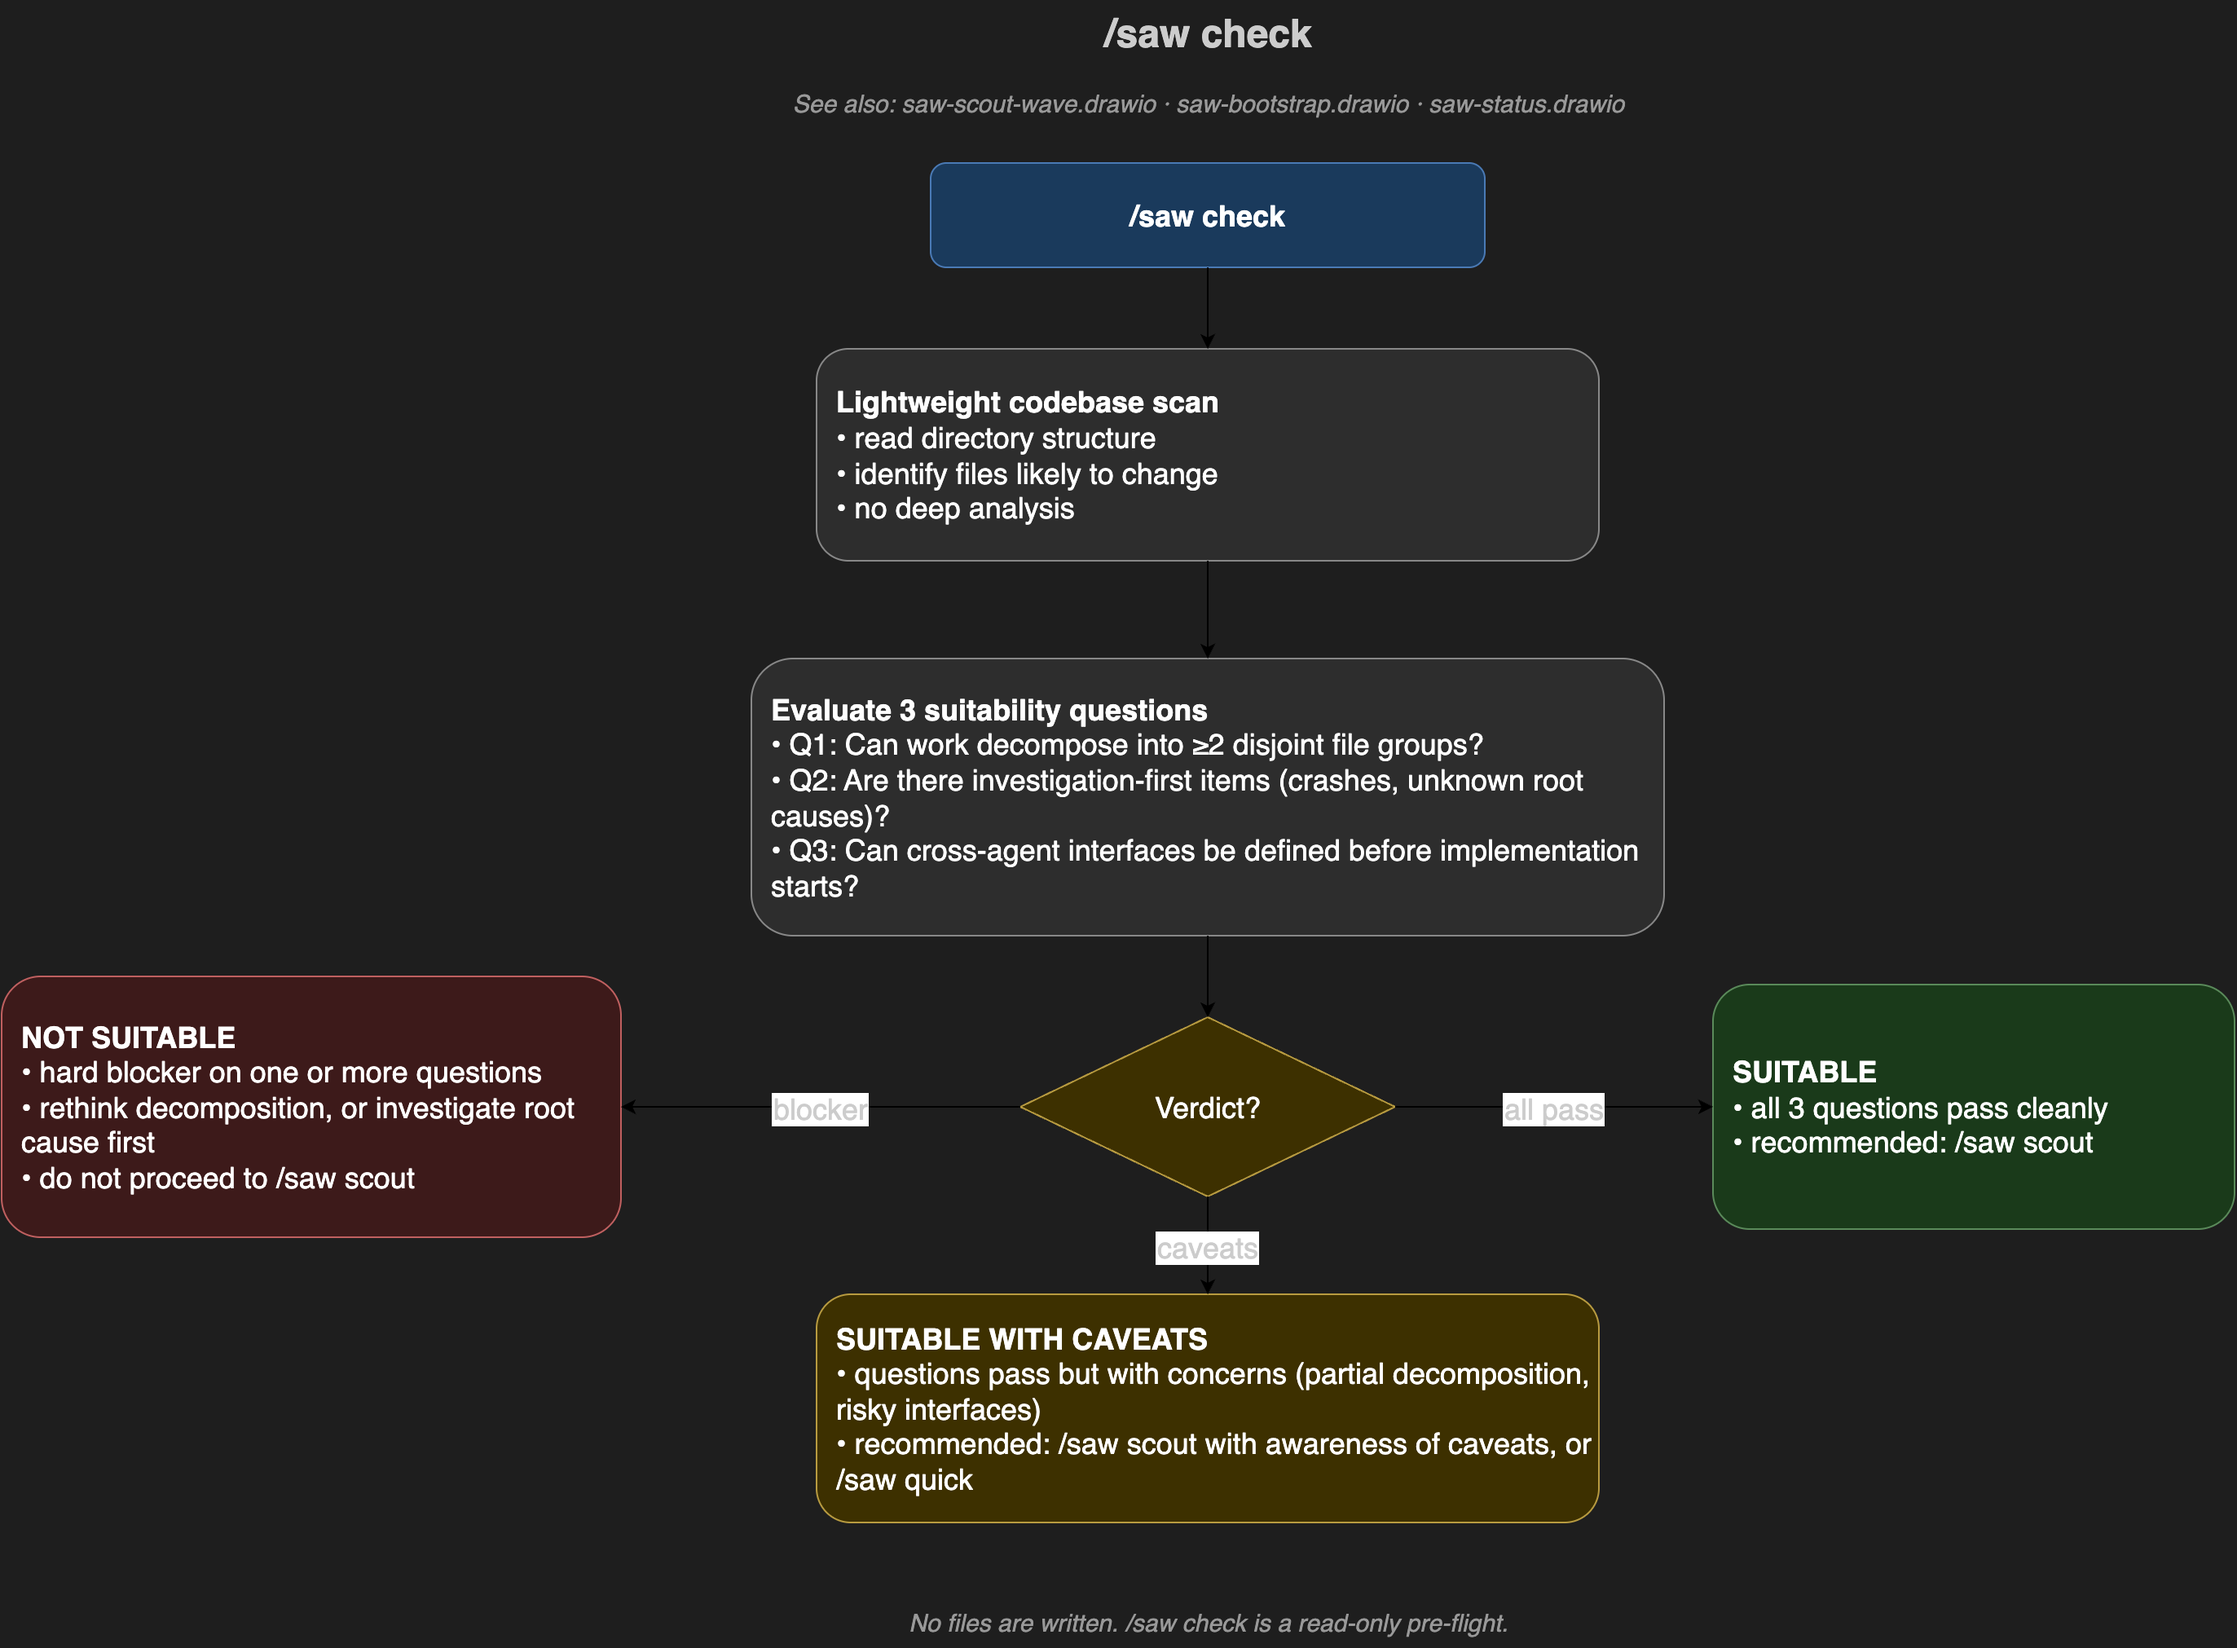
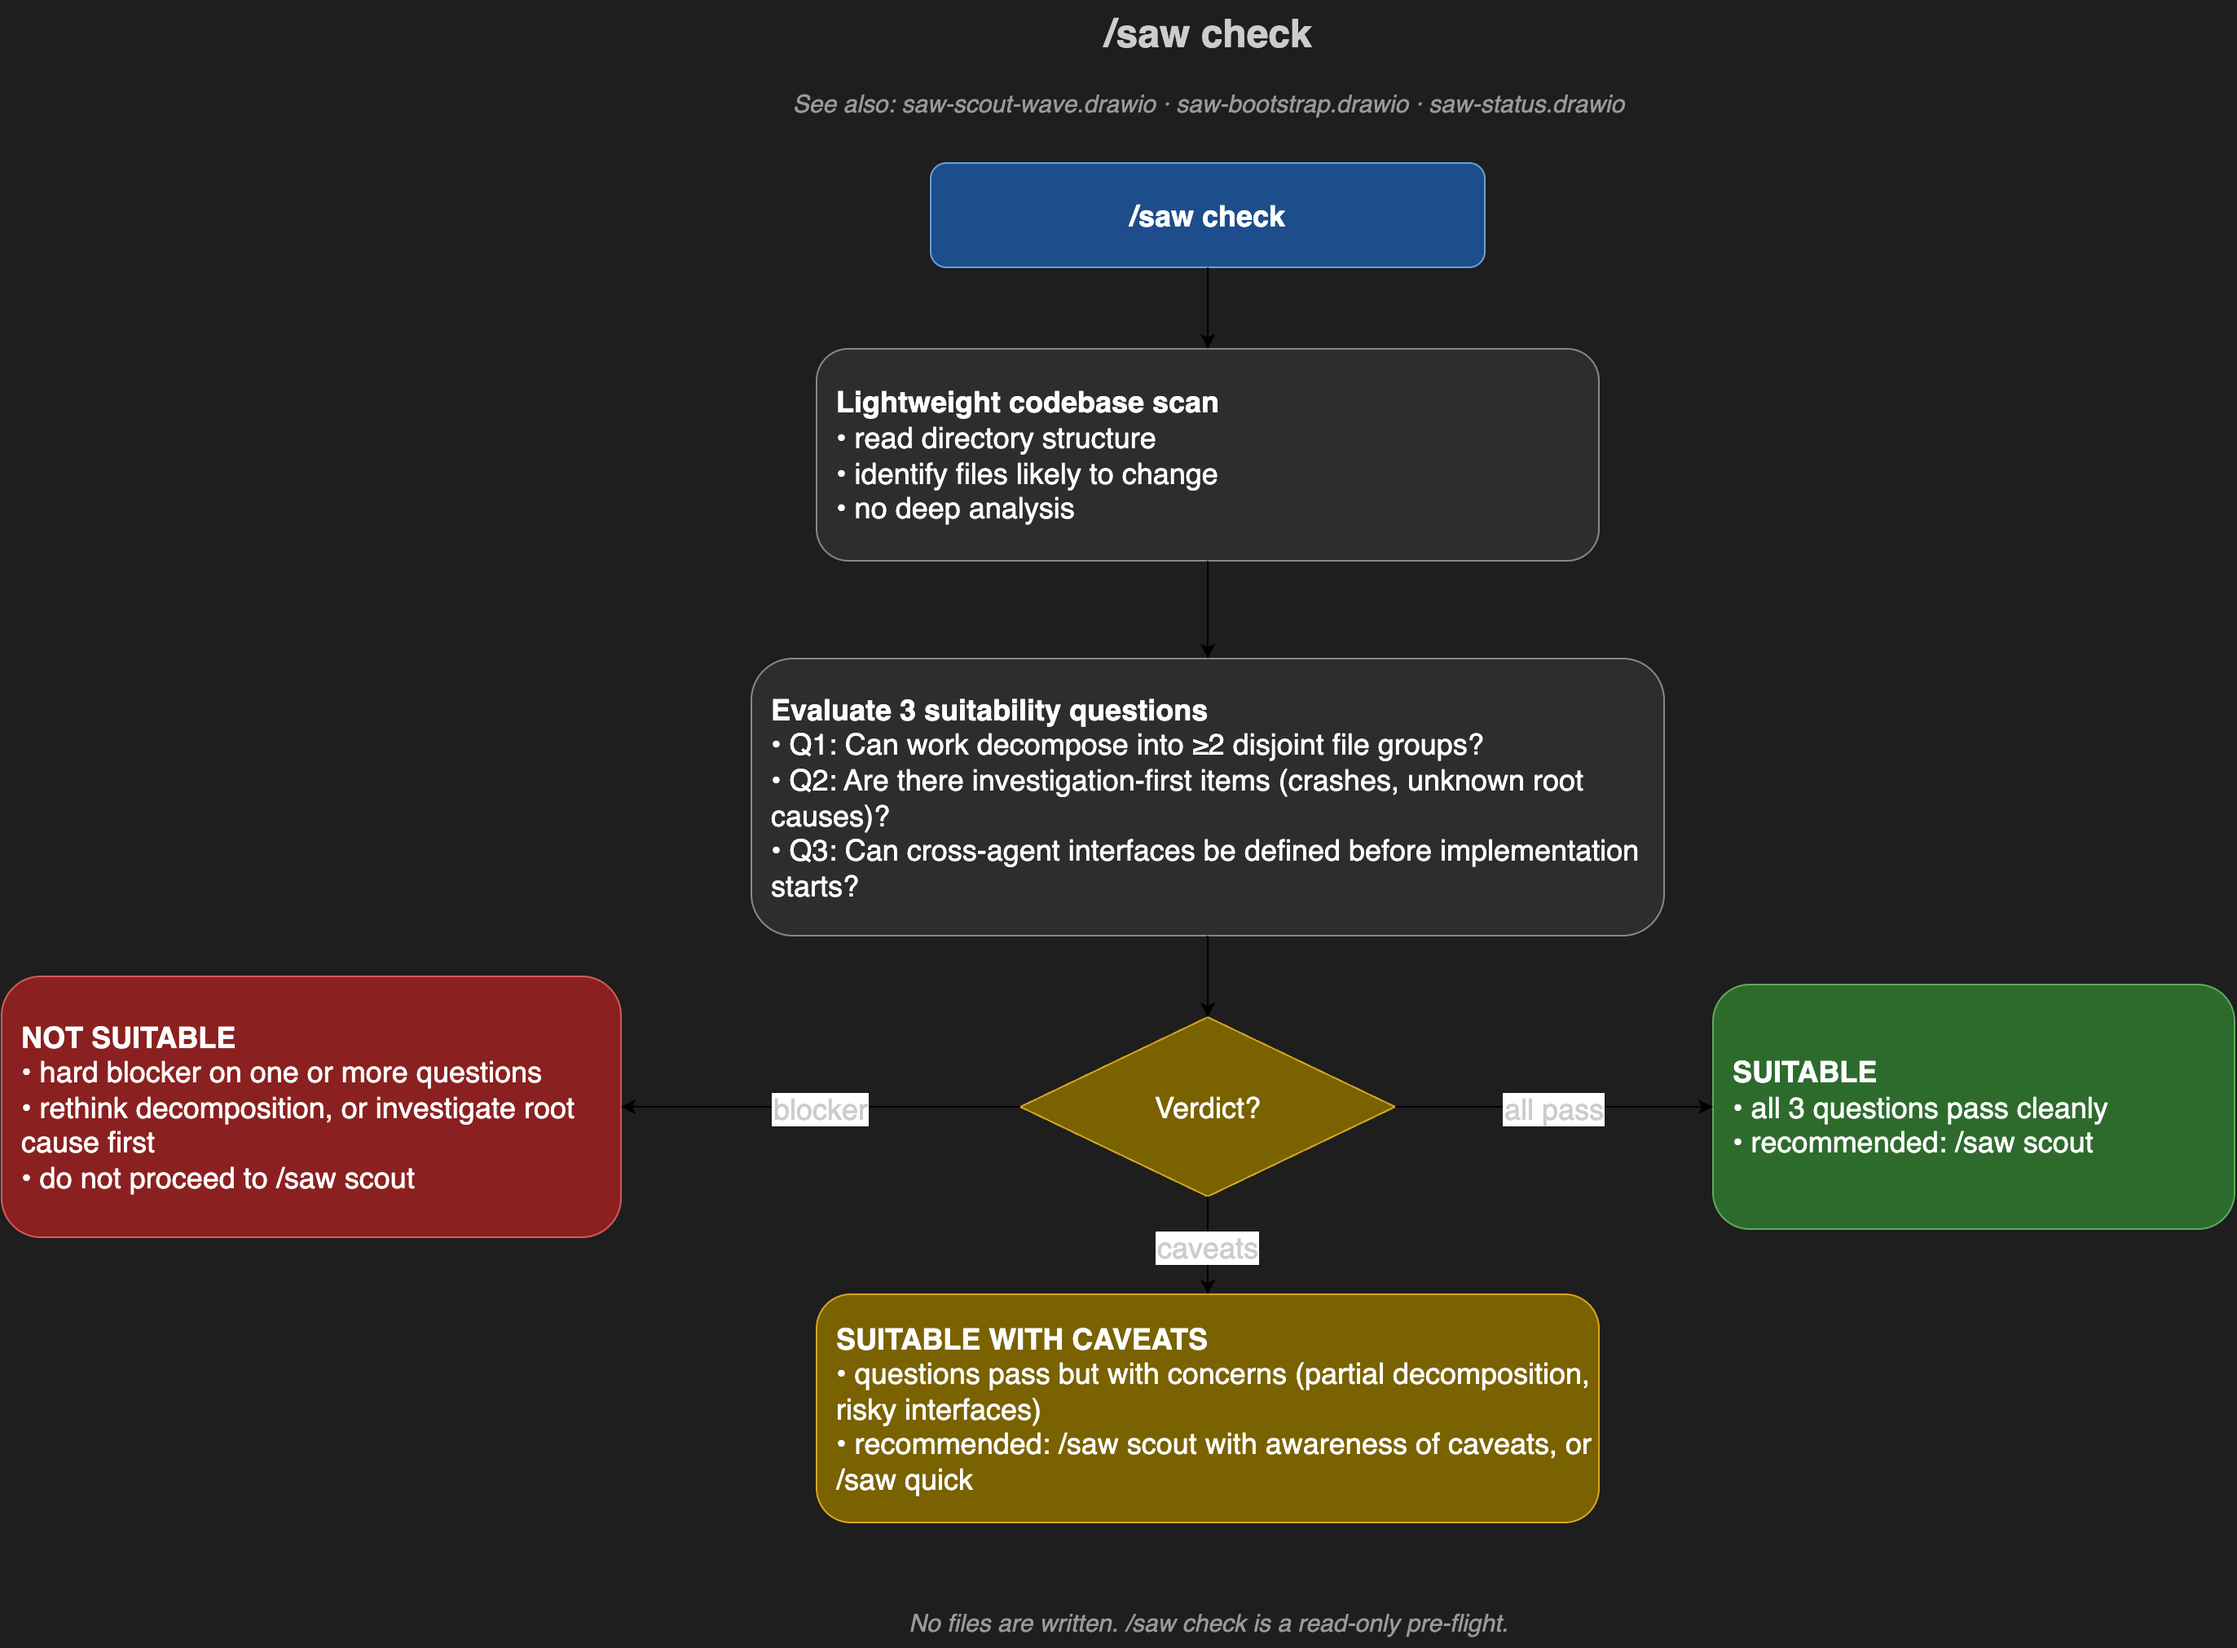
docs: fix dark mode colors — more saturated fills, cleaner contrast
Previous dark fills were near-black (#3d1a1a, #1a3a1a, #3d3000) causing
verdict boxes to render as white with unreadable text. Replaced with
medium-dark saturated colors:
  red   #f8cecc → #8b2020
  green #d5e8d4 → #2d6b2d
  amber #fff2cc → #7a6200
  blue  #dae8fc → #1e4d8c
  gray  #f5f5f5 → #3a3a3a

Regenerated all dark and transparent PNGs. Deleted old broken exports.

diff --git a/scripts/make-dark.py b/scripts/make-dark.py
@@ -5,20 +5,22 @@ import re
 from pathlib import Path
 
 # Semantic color mappings: light → dark
+# Fills use medium-dark saturated colors so semantic meaning (red/green/amber/blue)
+# remains clearly readable on a dark canvas — not so dark they render near-black.
 FILL_MAP = {
-    '#dae8fc': '#1a3a5c',   # blue fill (entry nodes)
-    '#fff2cc': '#3d3000',   # yellow fill (diamonds, caveats)
-    '#d5e8d4': '#1a3a1a',   # green fill (checkpoints)
-    '#f8cecc': '#3d1a1a',   # red fill (error/stop nodes)
-    '#f5f5f5': '#2a2a2a',   # gray fill (swimlane, reference nodes)
+    '#dae8fc': '#1e4d8c',   # blue fill (entry nodes)
+    '#fff2cc': '#7a6200',   # amber fill (diamonds, caveats)
+    '#d5e8d4': '#2d6b2d',   # green fill (checkpoints, suitable)
+    '#f8cecc': '#8b2020',   # red fill (error/stop/not-suitable nodes)
+    '#f5f5f5': '#3a3a3a',   # gray fill (swimlane, reference nodes)
 }
 
 STROKE_MAP = {
-    '#6c8ebf': '#4a7ab5',   # blue stroke
-    '#d6b656': '#b89b40',   # yellow stroke
-    '#82b366': '#5a8a5a',   # green stroke
-    '#b85450': '#c06060',   # red stroke
-    '#666666': '#888888',   # gray stroke (swimlane)
+    '#6c8ebf': '#6a9fd8',   # blue stroke
+    '#d6b656': '#d4a820',   # amber stroke
+    '#82b366': '#5aad5a',   # green stroke
+    '#b85450': '#d45a5a',   # red stroke
+    '#666666': '#999999',   # gray stroke (swimlane)
 }
 
 FONT_MAP = {
